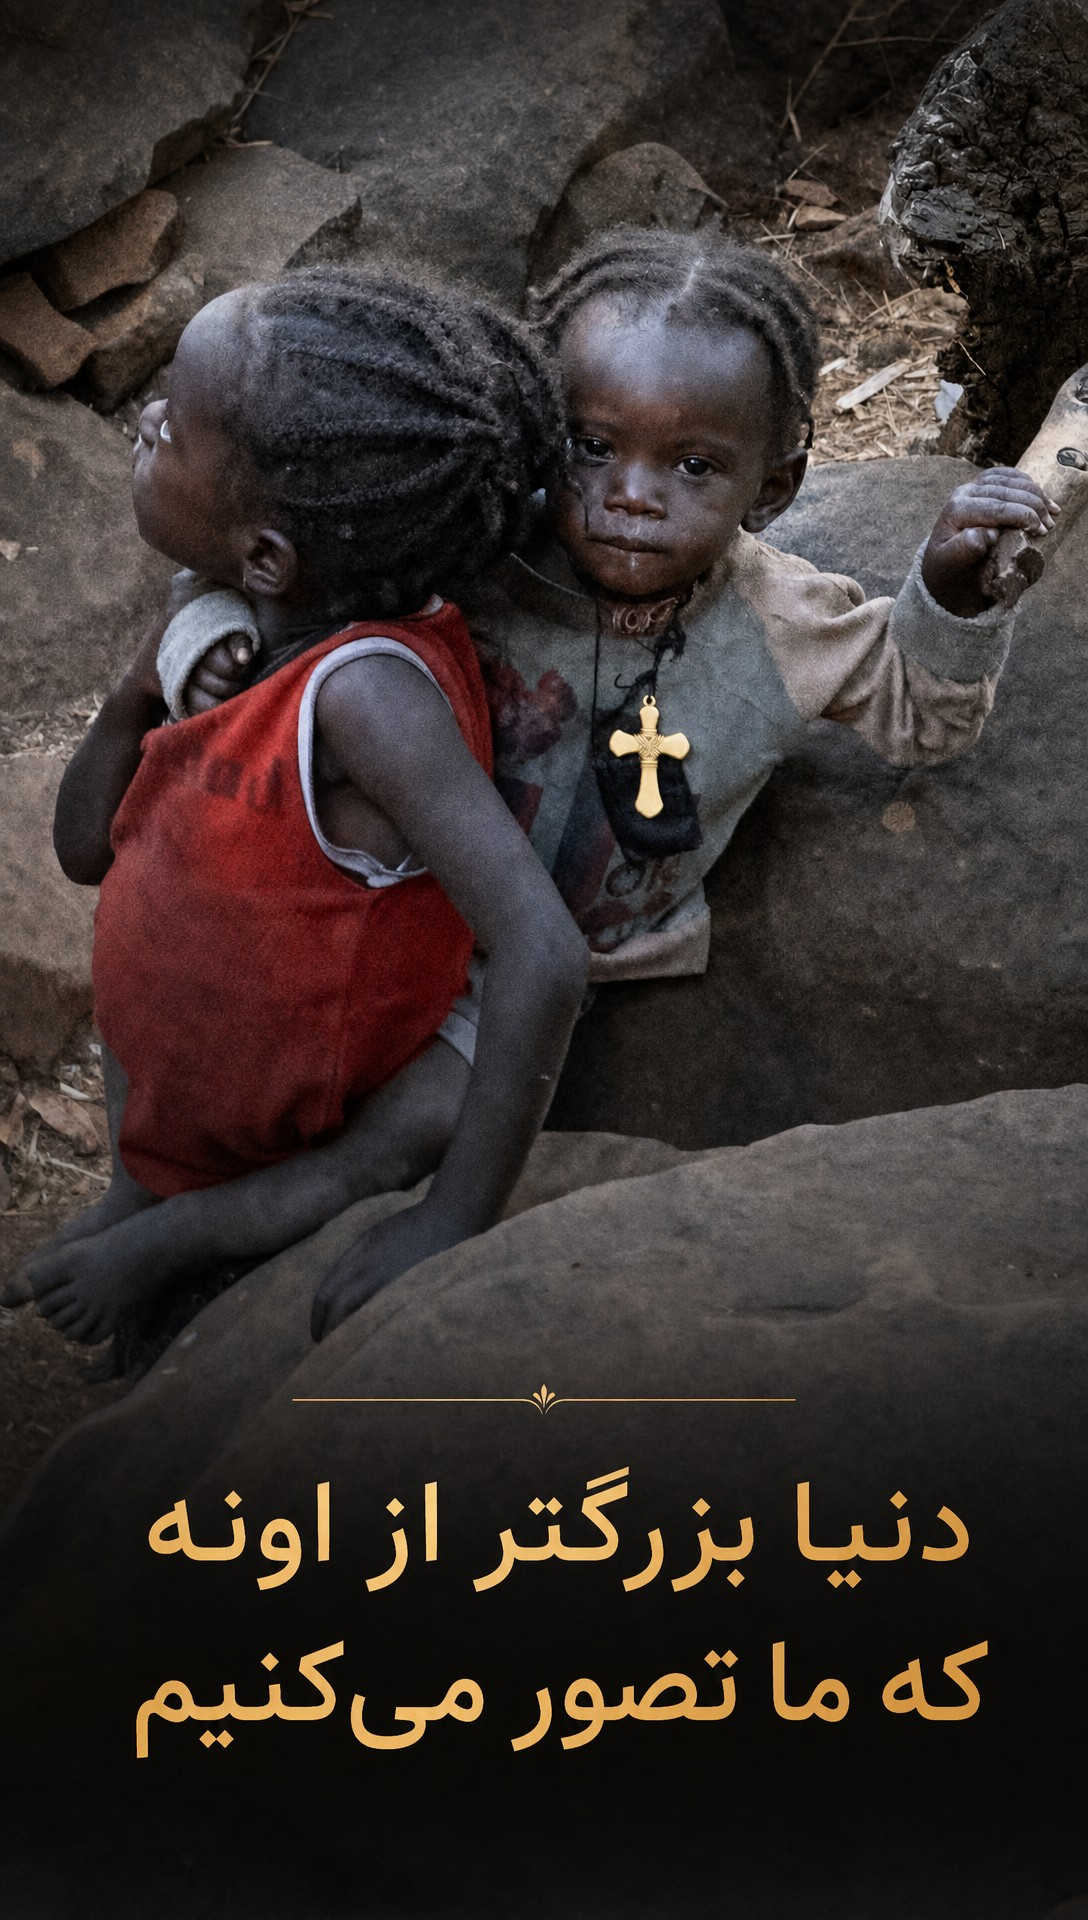
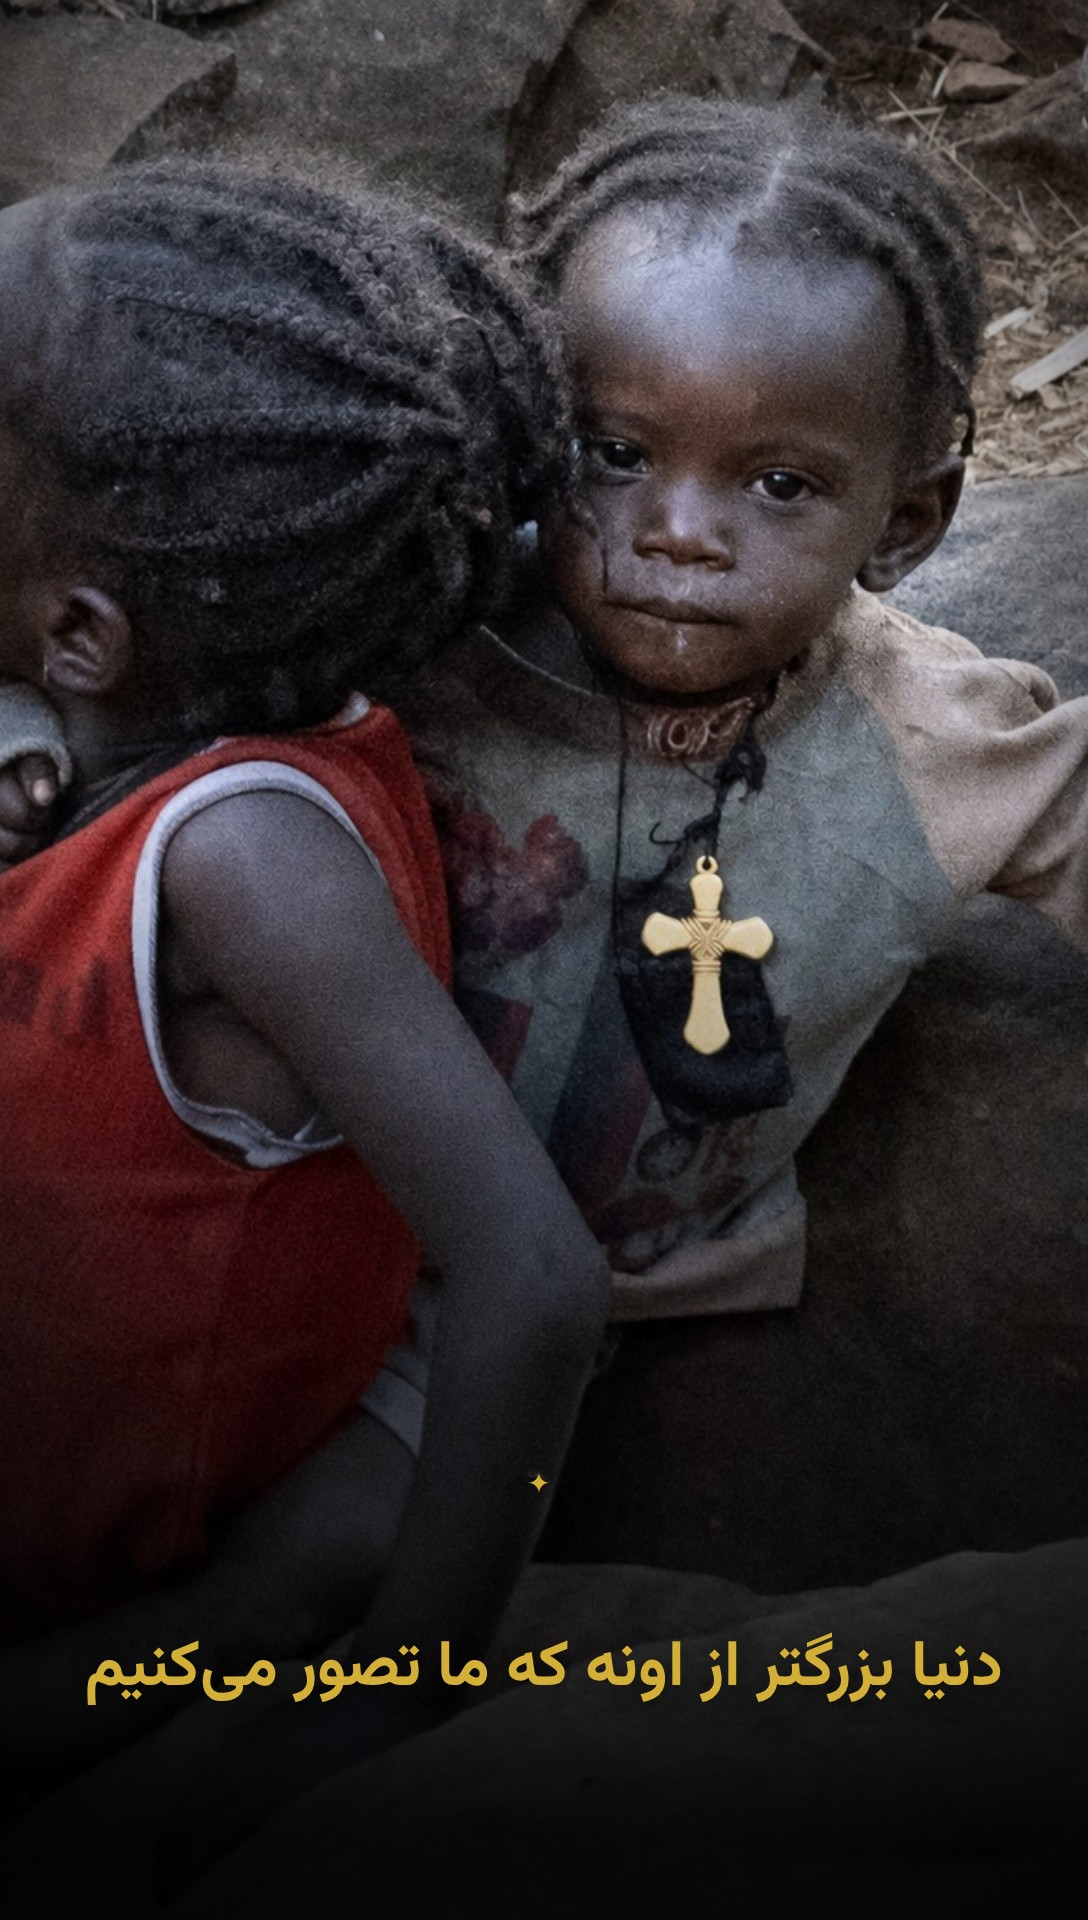
Story typography: bespoke per-photo prompts, refined Playwright fallback
gpt_story_typography.py now takes --prompt (like gpt_enhance_photo.py's
quality-enhance prompt) instead of a fixed generic template — Bahman
rejected the generic version as not creative enough. Regenerated مذهب's
story with a bespoke pilgrimage-themed prompt; it still moderation-blocks
(children in frame, consistent with gpt_enhance_photo.py's known limit) and
falls back to the Playwright/Vazirmatn overlay, now with a softer radial
vignette + text shadow. Documented the new step in the photo-beshno skill
and CLAUDE.md.

diff --git a/scripts/gpt_story_typography.py b/scripts/gpt_story_typography.py
@@ -5,9 +5,20 @@ tagline baked in as elegant Persian typography.
 
 The tagline is the same on every photo's story (it's the series' fixed
 closing line, already used in every caption) — what changes per photo is the
-base image. One of these gets made per published post, not once for the
-whole series (confirmed 2026-08-12 after an initial one-off attempt was
-mistaken for a series-wide asset).
+base image AND the visual treatment. One of these gets made per published
+post, not once for the whole series (confirmed 2026-08-12 after an initial
+one-off attempt was mistaken for a series-wide asset).
+
+The prompt should be photo/story-specific, not generic (confirmed 2026-08-12:
+Bahman rejected the first, generic "photo + flat bottom gradient + boxed
+text" version as not creative enough — a second attempt that wove in the
+photo's own story themes — dusty golden-hour light, faint footprints on the
+path, weathered typography set into the sky instead of a flat box, for
+یارو's "walks the same path searching for something he lost" story — worked
+much better). `--prompt` lets the caller (the /photo-beshno skill) pass a
+bespoke, story-themed prompt each time, the same way gpt_enhance_photo.py's
+quality-enhance prompt is written fresh per photo. Falls back to a plain
+generic prompt only if none is given.
 
 Primary path: gpt-image-2 `images/edits` (same endpoint/model as
 gpt_enhance_photo.py) draws the typography directly onto the photo. Retries
@@ -18,10 +29,11 @@ reword the prompt to route around it).
 Fallback (persistent moderation block): Playwright + real Vazirmatn web
 font, the same guaranteed-correct-Persian-rendering method already used
 throughout this repo for every other typography asset (story cards, hero
-images, covers) — a dark gradient panel over the untouched photo with the
-tagline rendered as real HTML/CSS text, not AI-drawn. Slower to set up but
-never garbles Persian script and never hits a moderation wall (it's not an
-AI image edit at all).
+images, covers) — a soft-vignetted gradient panel over the untouched photo
+with the tagline rendered as real HTML/CSS text, not AI-drawn. Slower to set
+up and can't be made thematic per-story the way the AI path can, but never
+garbles Persian script and never hits a moderation wall (it's not an AI
+image edit at all) — so the pipeline never stalls on a rejected photo.
 
 Reads the FINAL, already-published photo at images/ig-queue/<asset_id>.jpg
 (not the working _source/ copy) and writes to
@@ -32,7 +44,8 @@ saving — an unoptimized gpt-image-2 story output can be 3MB+, well outside
 this repo's usual ~300-500KB image weight.
 
 Usage:
-    scripts/.venv/bin/python scripts/gpt_story_typography.py <asset_id>
+    scripts/.venv/bin/python scripts/gpt_story_typography.py <asset_id> --prompt "..."
+    scripts/.venv/bin/python scripts/gpt_story_typography.py <asset_id>   # generic default prompt
 """
 
 import argparse
@@ -60,10 +73,10 @@ EDIT_API_URL = "https://api.openai.com/v1/images/edits"
 
 TAGLINE = "دنیا بزرگتر از اونه که ما تصور میکنیم"
 
-PROMPT = f"""Turn this photograph into a striking vertical Instagram Story design (portrait
-9:16 composition, 1088x1920). Keep the original photo as the main visual — do not change
-the subject, pose, or setting — but you may add a tasteful dark gradient/vignette at the
-bottom third of the frame to create legible contrast for text.
+DEFAULT_PROMPT = f"""Turn this photograph into a striking vertical Instagram Story design
+(portrait 9:16 composition, 1088x1920). Keep the original photo as the main visual — do not
+change the subject, pose, or setting — but you may add a tasteful dark gradient/vignette at
+the bottom third of the frame to create legible contrast for text.
 
 Add large, elegant Persian (Farsi) typography, in Persian script, reading exactly this
 phrase, on two lines:
@@ -71,10 +84,10 @@ phrase, on two lines:
 {TAGLINE}
 
 Style the typography: warm gold/amber color, a modern elegant Persian typeface (like
-Vazirmatn or a similarly clean geometric Persian typeface), positioned in the lower third
-over the dark gradient, generous letter spacing, right-to-left reading order preserved
-correctly. Add a small thin gold decorative line or ornament above the text. Do not add any
-other text, no logos, no watermarks, no English text anywhere in the image."""
+Vazirmatn or a similarly clean geometric Persian typeface), generous letter spacing,
+right-to-left reading order preserved correctly. Add a small thin gold decorative line or
+ornament near the text. Do not add any other text, no logos, no watermarks, no English text
+anywhere in the image."""
 
 HTML_TEMPLATE = """<!doctype html>
 <html><head><meta charset="utf-8">
@@ -84,9 +97,13 @@ HTML_TEMPLATE = """<!doctype html>
   * {{ margin: 0; padding: 0; box-sizing: border-box; }}
   body {{ width: 1088px; height: 1920px; position: relative; overflow: hidden; }}
   .bg {{ position: absolute; inset: 0; width: 100%; height: 100%; object-fit: cover; }}
+  .vignette {{
+    position: absolute; inset: 0;
+    background: radial-gradient(ellipse at center, rgba(0,0,0,0) 55%, rgba(0,0,0,0.55) 100%);
+  }}
   .gradient {{
-    position: absolute; left: 0; right: 0; bottom: 0; height: 55%;
-    background: linear-gradient(to top, rgba(0,0,0,0.92) 10%, rgba(0,0,0,0.55) 55%, rgba(0,0,0,0) 100%);
+    position: absolute; left: 0; right: 0; bottom: 0; height: 58%;
+    background: linear-gradient(to top, rgba(0,0,0,0.94) 8%, rgba(0,0,0,0.6) 45%, rgba(0,0,0,0) 100%);
   }}
   .ornament {{
     position: absolute; bottom: 420px; left: 0; right: 0; text-align: center;
@@ -96,10 +113,12 @@ HTML_TEMPLATE = """<!doctype html>
     position: absolute; bottom: 200px; left: 60px; right: 60px; text-align: center;
     font-family: 'Vazirmatn', sans-serif; font-weight: 700; color: #d4af37;
     font-size: 64px; line-height: 1.6; direction: rtl;
+    text-shadow: 0 2px 24px rgba(0,0,0,0.5);
   }}
 </style></head>
 <body>
   <img class="bg" src="{photo_path}">
+  <div class="vignette"></div>
   <div class="gradient"></div>
   <div class="ornament">&#10022;</div>
   <div class="tagline">{tagline}</div>
@@ -113,7 +132,7 @@ def _is_moderation_block(resp: requests.Response) -> bool:
         return False
 
 
-def _generate_via_gpt(source_path: Path) -> bytes | None:
+def _generate_via_gpt(source_path: Path, prompt: str) -> bytes | None:
     """Returns raw image bytes on success, None if persistently moderation-blocked."""
     for attempt in range(2):
         with open(source_path, "rb") as f:
@@ -121,7 +140,7 @@ def _generate_via_gpt(source_path: Path) -> bytes | None:
                 EDIT_API_URL,
                 headers={"Authorization": f"Bearer {API_KEY}"},
                 files={"image": (source_path.name, f, "image/jpeg")},
-                data={"model": "gpt-image-2", "prompt": PROMPT, "size": "1088x1920", "quality": "high"},
+                data={"model": "gpt-image-2", "prompt": prompt, "size": "1088x1920", "quality": "high"},
                 timeout=180,
             )
         if resp.ok:
@@ -156,7 +175,7 @@ def _generate_via_playwright(source_path: Path) -> bytes:
         html_path.unlink(missing_ok=True)
 
 
-def generate(asset_id: str) -> Path:
+def generate(asset_id: str, prompt: str = None) -> Path:
     if not API_KEY:
         raise SystemExit("OPENAI_API_KEY not found in .env")
 
@@ -167,7 +186,7 @@ def generate(asset_id: str) -> Path:
     STORIES_DIR.mkdir(parents=True, exist_ok=True)
     out_path = STORIES_DIR / f"{asset_id}.jpg"
 
-    raw = _generate_via_gpt(source_path)
+    raw = _generate_via_gpt(source_path, prompt or DEFAULT_PROMPT)
     if raw is None:
         print("gpt-image-2 rejected this photo twice (moderation_blocked) — "
               "falling back to the Playwright/Vazirmatn overlay.", file=sys.stderr)
@@ -183,9 +202,10 @@ def generate(asset_id: str) -> Path:
 def main():
     parser = argparse.ArgumentParser()
     parser.add_argument("asset_id")
+    parser.add_argument("--prompt", help="Bespoke, story-themed prompt (falls back to a generic one if omitted)")
     args = parser.parse_args()
 
-    out_path = generate(args.asset_id)
+    out_path = generate(args.asset_id, args.prompt)
     print(f"Saved: {out_path.relative_to(REPO_ROOT)} ({out_path.stat().st_size // 1024} KB)")
 
 

diff --git a/CLAUDE.md b/CLAUDE.md
@@ -407,7 +407,7 @@ work required per photo.
   `scripts/lr_refresh_token.py` around **2026-08-25** to check whether it's still valid or
   `scripts/lr_auth.py` needs to be re-run.
 
-### Scripts (`scripts/`, same `.venv` as the Instagram Story scripts — `requests` + `python-dotenv` + `Pillow` (added 2026-08-12 for `gpt_enhance_photo.py`'s resize/recompress step))
+### Scripts (`scripts/`, same `.venv` as the Instagram Story scripts — `requests` + `python-dotenv` + `Pillow` (added 2026-08-12 for `gpt_enhance_photo.py`'s resize/recompress step) + `playwright` (already installed in this venv from earlier PanorAIma work, but its browser binary needed a separate `scripts/.venv/bin/python3 -m playwright install chromium` the first time `gpt_story_typography.py`'s fallback path actually ran))
 
 | Script | Purpose |
 |---|---|
@@ -417,6 +417,7 @@ work required per photo.
 | `lr_list_album.py "<album name>"` | Lists an album's assets — spot-check tool |
 | `lr_fetch_photo.py [asset_id]` | Picks **one random** not-yet-processed asset from the `instagram` album (or a specific one if given) and fetches it at **2048px** — verified live 2026-08-12 that Adobe's rendition endpoint only serves `1280`/`2048`, nothing larger, no original/master download — into the non-committed working path `images/ig-queue/_source/<asset-id>.jpg`. Writes the initial JSON record with `pipeline_state: "enhancing"`. |
 | `gpt_enhance_photo.py <asset_id> --prompt "..."` | Quality-enhances `_source/<asset-id>.jpg` via OpenAI's `gpt-image-2` image-edit endpoint (`images/edits`, same request shape as kavosh/dariche's `reel_stills.py`/`podcast_cover.py`) with a **fresh, photo-specific prompt written per photo**, not a fixed template. Every result — whether GPT-enhanced or the fallback below — is resized to max 1440px and recompressed under ~500KB (`optimize_jpeg()`) before being written to the final, committed, public `images/ig-queue/<asset-id>.jpg`, so nothing heavy lands in the repo. **Moderation fallback** (confirmed live 2026-08-12): OpenAI's output moderation can hard-block edits of photos containing children, even for a plain quality pass — the script retries once, and if still rejected, falls back to an optimize-only copy of the source with no AI enhancement. Never reword the prompt to route around a moderation block. |
+| `gpt_story_typography.py <asset_id> --prompt "..."` | Generates one Instagram Story per published post — the photo itself with the series' fixed tagline (`دنیا بزرگتر از اونه که ما تصور میکنیم`) baked in as typography, via the same `gpt-image-2` `images/edits` endpoint. **One per post, not one for the whole series** (corrected 2026-08-12 after an initial mix-up), and the prompt must be **bespoke/story-themed every time**, not the generic default — a flat "photo + bottom gradient box" version was explicitly rejected as not creative enough; atmospheric treatments tying the visual mood to that photo's actual story (dusty golden-hour light + faint footprints for یارو's "same path" story; a worn pilgrimage path for مذهب's "vow kept for 44 years" story) worked much better. Same moderation-retry behavior as `gpt_enhance_photo.py`; if gpt-image-2 keeps rejecting the photo (children in frame), falls back to a Playwright + real Vazirmatn-font overlay — guaranteed-correct Persian text, same method used for every other typography asset in this repo, but not thematic (can't be, it's a fixed template). Output: `images/ig-queue/stories/<asset-id>.jpg`, always resized/recompressed via `image_common.optimize_jpeg()`. |
 | `telegram_send.py` | Sends a photo-pipeline message by shelling out to a sibling private automation repo's own `notify_telegram.py` (`cwd=$TELEGRAM_BRIDGE_DIR`, that repo's own bot/chat/`.env` — no Telegram secrets duplicated here; its path is deliberately not hardcoded — see **Automated routine** below), tagging every send `--record-context {"type": "photo_pipeline", ...}` so a later reply resolves back to this pipeline. See **Automated routine** below for why this repo never runs its own `getUpdates` consumer. |
 | `lr_publish_photo.py [asset_id] [--confirm-publish]` | Manual one-off publish of an `"approved"` photo — dry-run preview by default. Calls the shared `publish_feed_photo()`. |
 | `lr_check_schedule.py [--dry-run]` | Cron script (every 15 min): publishes any record with `pipeline_state: "scheduled"` whose `scheduled_for` has passed, via the same shared `publish_feed_photo()`. Mirrors kavosh/dariche's `scripts/check_schedule.py` pattern (same alert-on-every-failure, `MAX_ATTEMPTS = 3` reasoning). |

diff --git a/.claude/commands/photo-beshno.md b/.claude/commands/photo-beshno.md
@@ -142,6 +142,20 @@ numbered steps below once a specific story is actually picked.
    plus the series tags and always `#هوشواره`). Save to `record["caption"]`.
 4. Append a short entry to `images/ig-queue/_story_universe.md` (photo title,
    one-line story summary, any named recurring motif introduced).
+4.5. Generate this photo's Instagram Story typography graphic:
+   `scripts/.venv/bin/python scripts/gpt_story_typography.py <asset_id> --prompt "<bespoke prompt>"`
+   — **write a fresh, story-themed prompt every time** (same principle as the
+   GPT-enhance prompt in step 2 — never call this without `--prompt`, the
+   generic default was explicitly rejected as "not creative enough," 2026-08-12).
+   Ground the prompt in the actual chosen story's imagery/mood (see یارو's
+   dusty-golden-hour/faint-footprints treatment and مذهب's
+   worn-pilgrimage-path treatment as the two references so far) — atmospheric
+   photo treatment + the tagline woven into the scene (etched/weathered/set
+   into the environment), not a flat gradient box with centered text. Falls
+   back automatically to a Playwright/Vazirmatn overlay if gpt-image-2
+   moderation-blocks the photo twice (confirmed to recur on photos with
+   children) — that fallback can't be made thematic, note it plainly if it
+   was used. Result lands at `images/ig-queue/stories/<asset_id>.jpg`.
 5. Propose a `scheduled_for` slot (corrected 2026-08-12 — the original "~7
    days out" default was wrong, Bahman explicitly wants posting to start
    **tomorrow**, not next week): take the latest `scheduled_for` across all
